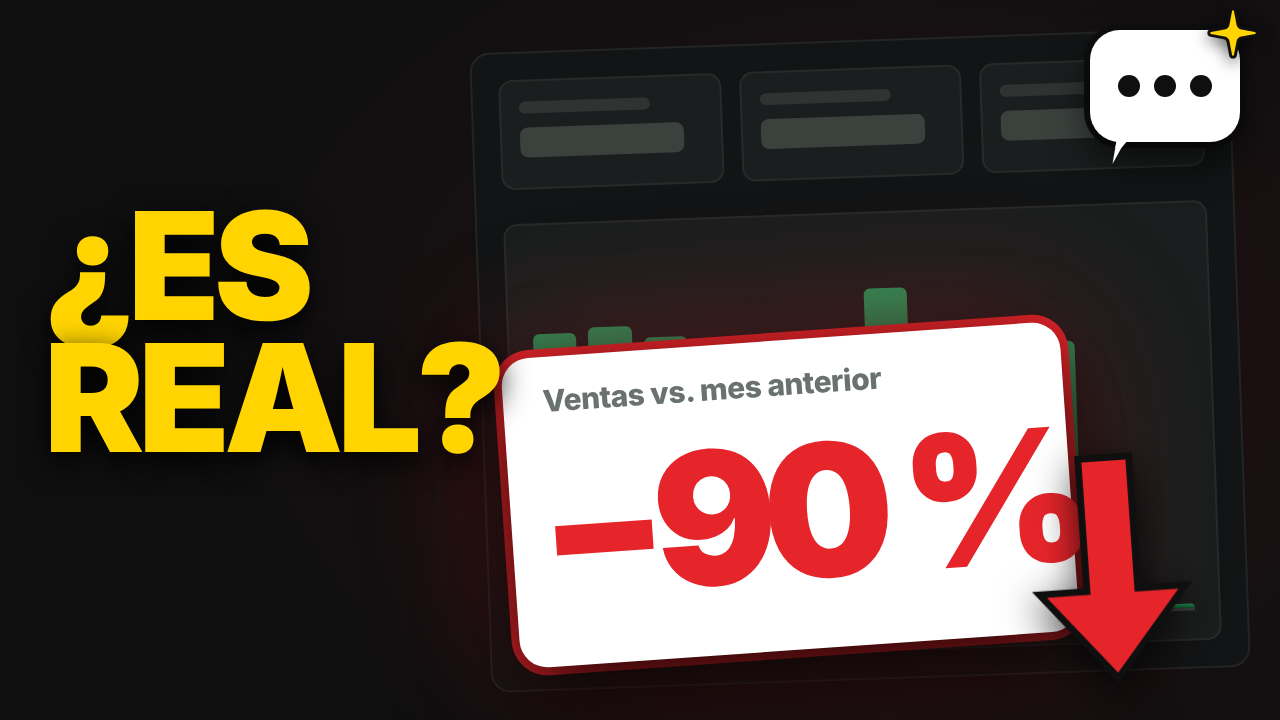
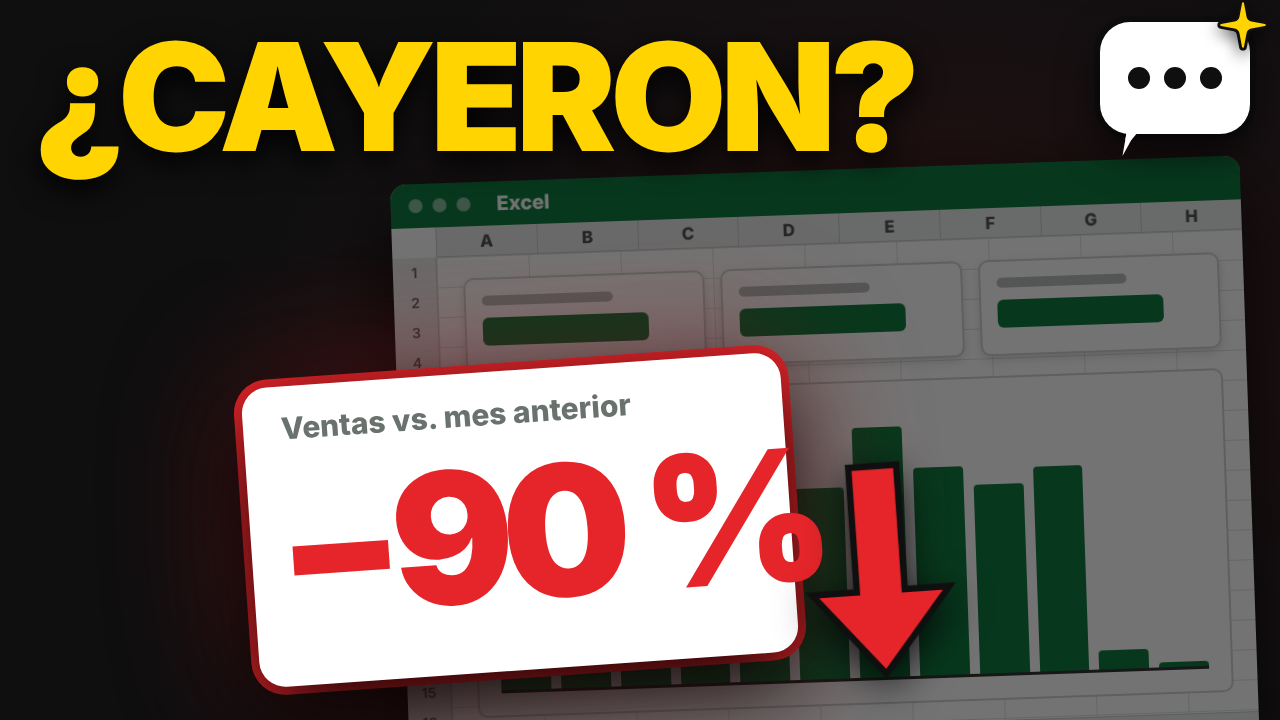
video03: idea ronda 3 (título paso a paso, miniatura B que se lee como Excel)
Claude-Session: https://claude.ai/code/session_014hf1NtWBYouBGzqzAzvZds

diff --git a/produccion/video03/miniatura-b.html b/produccion/video03/miniatura-b.html
@@ -6,30 +6,43 @@
 @font-face{font-family:Inter;font-weight:900;src:url(file:///home/user/nube/produccion/render/fonts/inter-latin-ext-900-normal.woff2);unicode-range:U+0100-024F}
 *{box-sizing:border-box}
 html,body{margin:0;width:1280px;height:720px;overflow:hidden;font-family:Inter,sans-serif;color:#fff}
-body{background:radial-gradient(900px 640px at 70% 50%,#2a0d0d 0%,#161011 50%,#0f0f10 80%)}
+body{background:radial-gradient(900px 640px at 72% 50%,#2a0d0d 0%,#161011 50%,#0f0f10 80%)}
 .bubble{position:absolute;width:150px;height:112px;background:#ffffff;border-radius:30px;box-shadow:0 18px 40px #000a, 0 0 0 6px #0f0f10;display:flex;align-items:center;justify-content:center;gap:14px}
 .bubble:after{content:"";position:absolute;left:26px;bottom:-22px;border:16px solid transparent;border-top:24px solid #fff;border-left:6px solid #fff;transform:skewX(-10deg)}
 .bubble i{width:22px;height:22px;border-radius:50%;background:#0f0f10;display:block}
 .bubble svg{position:absolute;right:-22px;top:-26px;width:58px;height:58px;filter:drop-shadow(0 4px 8px #000a)}
 
-.dash{position:absolute;left:480px;top:40px;width:760px;height:640px;background:#17191a;border-radius:20px;border:2px solid #2a2e2c;filter:brightness(.8);transform:rotate(-2deg)}
-.cards{display:flex;gap:18px;padding:26px}
-.cards div{flex:1;height:110px;background:#222625;border-radius:14px;border:2px solid #303533}
-.cards div:before{content:"";display:block;margin:20px 18px 14px;width:60%;height:12px;border-radius:6px;background:#3b413e}
-.cards div:after{content:"";display:block;margin:0 18px;width:75%;height:30px;border-radius:8px;background:#4a524e}
-.chart{position:absolute;left:26px;right:26px;bottom:26px;height:440px;background:#222625;border-radius:14px;border:2px solid #303533}
-.bars{position:absolute;left:24px;right:24px;bottom:28px;height:340px;display:flex;align-items:flex-end;gap:12px;border-bottom:3px solid #4a524e}
-.bars div{flex:1;background:linear-gradient(#2fb36e,#107C41);border-radius:6px 6px 0 0}
-.kpi{position:absolute;left:510px;top:340px;width:560px;height:310px;background:#fff;border-radius:28px;transform:rotate(-4deg);box-shadow:0 30px 90px #000e,0 0 0 8px #e5252a,0 0 140px #e5252a66;overflow:visible}
-.kpi h4{margin:26px 0 0 40px;font:800 30px Inter;color:#6a726e;letter-spacing:-.5px}
-.kpi .v{position:absolute;left:28px;top:80px;font:900 184px Inter;color:#e5252a;letter-spacing:-14px;line-height:1;white-space:nowrap}
-.kpi svg.arrow{position:absolute;right:-120px;bottom:-60px;width:170px;height:240px;filter:drop-shadow(0 12px 20px #000c)}
-.t{position:absolute;left:44px;top:200px;font-weight:900;line-height:.88;letter-spacing:-6px;text-shadow:0 10px 30px #000}
-.t span{display:block;font-size:150px;color:#ffd400}
+.xl{position:absolute;left:400px;top:170px;width:850px;height:600px;background:#fff;border-radius:16px;overflow:hidden;transform:rotate(-2deg);filter:brightness(.45);box-shadow:0 30px 80px #000c}
+.top{height:44px;background:#107C41;display:flex;align-items:center;padding-left:18px;gap:10px}
+.top i{width:14px;height:14px;border-radius:50%;background:#ffffff80;display:block}
+.top b{margin-left:16px;font:800 20px Inter;color:#fff}
+.cols{position:absolute;top:44px;left:44px;right:0;height:30px;background:#e9eceb;border-bottom:1px solid #c9cecc;display:flex}
+.cols span{flex:1;border-left:1px solid #c9cecc;font:700 17px Inter;color:#555;text-align:center;line-height:30px}
+.rows{position:absolute;top:74px;left:0;width:44px;bottom:44px;background:#e9eceb;border-right:1px solid #c9cecc;display:flex;flex-direction:column}
+.rows span{height:30px;font:600 14px Inter;color:#666;text-align:center;line-height:30px}
+.grid{position:absolute;top:74px;left:44px;right:0;bottom:44px;background-image:linear-gradient(#dfe3e1 1px,transparent 1px),linear-gradient(90deg,#dfe3e1 1px,transparent 1px);background-size:100% 30px,92px 100%}
+.tabs{position:absolute;left:0;right:0;bottom:0;height:44px;background:#e9eceb;border-top:1px solid #c9cecc}
+.tabs span{position:absolute;left:60px;bottom:0;height:40px;padding:0 22px;background:#fff;border-bottom:4px solid #107C41;font:800 18px Inter;color:#107C41;line-height:38px}
+.tabs span+span{left:200px;background:none;border:none;color:#666}
+.cards{position:absolute;top:96px;left:70px;right:24px;display:flex;gap:16px}
+.cards div{flex:1;height:96px;background:#fff;border:2px solid #cfd5d2;border-radius:10px;box-shadow:0 4px 10px #0002}
+.cards div:before{content:"";display:block;margin:16px 16px 12px;width:55%;height:10px;border-radius:5px;background:#b9c0bd}
+.cards div:after{content:"";display:block;margin:0 16px;width:70%;height:28px;border-radius:6px;background:#107C41}
+.chart{position:absolute;left:70px;right:24px;top:212px;bottom:64px;background:#fff;border:2px solid #cfd5d2;border-radius:10px}
+.bars{position:absolute;left:22px;right:22px;bottom:22px;height:270px;display:flex;align-items:flex-end;gap:10px;border-bottom:3px solid #333}
+.bars div{flex:1;background:#107C41;border-radius:4px 4px 0 0}
+.kpi{position:absolute;left:250px;top:370px;width:540px;height:300px;background:#fff;border-radius:26px;transform:rotate(-4deg);box-shadow:0 30px 90px #000e,0 0 0 8px #e5252a,0 0 140px #e5252a66}
+.kpi h4{margin:24px 0 0 38px;font:800 30px Inter;color:#6a726e}
+.kpi .v{position:absolute;left:26px;top:72px;font:900 182px Inter;color:#e5252a;letter-spacing:-12px;line-height:1;white-space:nowrap}
+.kpi svg{position:absolute;right:-165px;bottom:-40px;width:160px;height:230px;filter:drop-shadow(0 12px 20px #000c)}
+.t{position:absolute;left:34px;top:22px;font-weight:900;line-height:1;letter-spacing:-6px;white-space:nowrap;text-shadow:0 10px 30px #000;color:#ffd400}
+.t span{display:block;font-size:150px}
 </style></head><body>
-<div class="dash"><div class="cards"><div></div><div></div><div></div></div><div class="chart"><div class="bars"><div style="height:296px"></div><div style="height:301px"></div><div style="height:289px"></div><div style="height:221px"></div><div style="height:247px"></div><div style="height:252px"></div><div style="height:330px"></div><div style="height:275px"></div><div style="height:249px"></div><div style="height:271px"></div><div style="height:26px"></div><div style="height:4px"></div></div></div></div></div>
+<div class="xl"><div class="top"><i></i><i></i><i></i><b>Excel</b></div><div class="cols"><span>A</span><span>B</span><span>C</span><span>D</span><span>E</span><span>F</span><span>G</span><span>H</span></div><div class="rows"><span>1</span><span>2</span><span>3</span><span>4</span><span>5</span><span>6</span><span>7</span><span>8</span><span>9</span><span>10</span><span>11</span><span>12</span><span>13</span><span>14</span><span>15</span><span>16</span><span>17</span><span>18</span></div><div class="grid"></div>
+<div class="cards"><div></div><div></div><div></div></div><div class="chart"><div class="bars"><div style="height:224px"></div><div style="height:228px"></div><div style="height:219px"></div><div style="height:167px"></div><div style="height:187px"></div><div style="height:191px"></div><div style="height:250px"></div><div style="height:208px"></div><div style="height:189px"></div><div style="height:205px"></div><div style="height:19px"></div><div style="height:5px"></div></div></div>
+<div class="tabs"><span>Dashboard</span><span>Pedidos</span></div></div>
 <div class="kpi"><h4>Ventas vs. mes anterior</h4><div class="v">−90 %</div>
-<svg class="arrow" viewBox="0 0 100 130"><path d="M35 0h30v78h28L50 130 7 78h28z" fill="#e5252a" stroke="#0f0f10" stroke-width="4"/></svg></div>
-<div class="t"><span>¿ES</span><span>REAL?</span></div>
-<div class="bubble" style="left:1090px;top:30px"><i></i><i></i><i></i><svg viewBox="0 0 24 24"><path fill="#FFD400" stroke="#0f0f10" stroke-width="1.2" d="M11.017 2.814a1 1 0 0 1 1.966 0l1.051 5.558a2 2 0 0 0 1.594 1.594l5.558 1.051a1 1 0 0 1 0 1.966l-5.558 1.051a2 2 0 0 0-1.594 1.594l-1.051 5.558a1 1 0 0 1-1.966 0l-1.051-5.558a2 2 0 0 0-1.594-1.594l-5.558-1.051a1 1 0 0 1 0-1.966l5.558-1.051a2 2 0 0 0 1.594-1.594z"/></svg></div>
+<svg viewBox="0 0 100 130"><path d="M35 0h30v78h28L50 130 7 78h28z" fill="#e5252a" stroke="#0f0f10" stroke-width="4"/></svg></div>
+<div class="t"><span>¿CAYERON?</span></div>
+<div class="bubble" style="left:1100px;top:22px"><i></i><i></i><i></i><svg viewBox="0 0 24 24"><path fill="#FFD400" stroke="#0f0f10" stroke-width="1.2" d="M11.017 2.814a1 1 0 0 1 1.966 0l1.051 5.558a2 2 0 0 0 1.594 1.594l5.558 1.051a1 1 0 0 1 0 1.966l-5.558 1.051a2 2 0 0 0-1.594 1.594l-1.051 5.558a1 1 0 0 1-1.966 0l-1.051-5.558a2 2 0 0 0-1.594-1.594l-5.558-1.051a1 1 0 0 1 0-1.966l5.558-1.051a2 2 0 0 0 1.594-1.594z"/></svg></div>
 </body></html>

diff --git a/produccion/video03/idea.md b/produccion/video03/idea.md
@@ -1,6 +1,6 @@
-# Dashboard en Excel con IA: el error de cada inicio de mes (ronda 2)
+# Dashboard en Excel con IA paso a paso: el número que asusta (ronda 3)
 
-- **Pilar:** P1 · Excel + IA. La ficha (`canales/atajos-ia/ficha.md`, "Temas de RPM alto") incluye "dashboards e informes de gestión"; no hay una cifra de RPM con fuente para este tema y no la invento. · **Formato:** estructura **A (tutorial con cronómetro)** de `youtube/04` §5 (`04` solo define A, B y C). Los "pasos 1–3" son las 4 preguntas del dashboard. El "paso secreto" es la Prueba sobre el dato "contra el mes anterior" (≈ 65 %). El resultado final es el dashboard rehaciéndose al pegar los pedidos nuevos. · **Duración objetivo:** 9,5 min (rango 9–11), con un corte de anuncios en 5:00, entre la pregunta 2 y la 3.
+- **Pilar:** P1 · Excel + IA. RPM: **sin cifra verificada**. La única referencia es la ficha (`canales/atajos-ia/ficha.md`, "Temas de RPM alto": "dashboards e informes de gestión"), que es criterio propio y no un dato medido. No invento una cifra. Para sumar intención comercial, `informe de ventas`, `cuentas por cobrar` y `Power BI` van en capítulos y en la descripción. Con datos del canal, se revisa en el informe mensual de noviembre. · **Formato:** estructura **A (tutorial con cronómetro)** de `youtube/04` §5 (`04` solo define A, B y C). Los "pasos 1–3" son las 4 preguntas del dashboard. El "paso secreto" es la Prueba sobre el dato "contra el mes anterior" (≈ 65 %). El resultado final es el dashboard rehaciéndose al pegar los pedidos nuevos. · **Duración objetivo:** 9,5 min (rango 9–11), con un corte de anuncios en 5:00, entre la pregunta 2 y la 3.
 - **Palabra clave principal:** `dashboard en excel con ia`. Va al principio de todos los títulos, menos el A/B 3 condicional.
 - **Búsquedas relacionadas (no salen de `investigar.py sugerencias`, que volvió a dar 403 el 26/10/2026):**
   - Consultas medidas con la API: `dashboard en excel` (oportunidad 79) y `tabla dinamica con ia` (62; devuelve sobre todo dashboards con IA).
@@ -15,12 +15,12 @@
     - En español, los videos del tema hacen **entre 500 y 1.600 vistas por día**: El Inge Francisco [1.613/día](https://youtu.be/f1pifDNhSzk), El Tío Tech [1.336](https://youtu.be/VVE2BfJ2cdg), EXCELeINFO [882](https://youtu.be/YtGfOEePKRU), Raymon Acuña [680](https://youtu.be/V1O-Z0dl5o0) y El Tío Tech con VBA [515](https://youtu.be/cjvQzxuaGlI).
     - Su ratio es de **0,0x a 0,5x**, salvo Raymon Acuña (2,2x), y **ninguno tiene menos de 60 días**.
     - La demanda existe, pero se la llevan canales de 188 mil a 2 millones de suscriptores.
-    - **Expectativa:** por búsqueda, poco en las primeras semanas. El video depende del **CTR en sugeridos** (por eso el empaque principal es el giro, que no se parece a ninguna miniatura del top) y del **tráfico de video02** (tarjeta y pantalla final).
+    - **Expectativa:** por búsqueda, poco en las primeras semanas. El video depende del **CTR en sugeridos** (por eso la miniatura principal es la del −90 %, que no se parece a ninguna del top) y del **tráfico de video02** (tarjeta y pantalla final).
 - **Por qué ahora:**
   1. Todos los videos del tema venden velocidad: "1 minuto", "al instante", "adiós a las horas". Ninguno habla de que el número más grande del tablero puede estar mal.
   2. Se publica el **martes 03/11/2026, día 3 del mes**: es exactamente la situación del giro. Igual, la voz nunca dice "hoy": dice "el día 3 de cada mes", y el giro funciona en cualquier fecha de publicación.
   3. Continuidad: video02 (26/10) dejó la planilla de Distribuidora Sur limpia y con la cobranza corregida. video03 es el paso siguiente: "los datos ya están limpios; ahora, el tablero del lunes".
-- **Línea 1 de la descripción:** "Dashboard en Excel con IA: pegas los pedidos y se rehace solo, pero ojo con el error de cada inicio de mes que te muestra caídas de ventas que no existen. Gratis, en Excel para la web, sin macros ni tablas dinámicas."
+- **Línea 1 de la descripción:** "Arma paso a paso un dashboard de ventas en Excel con IA: pegas los pedidos y se rehace solo, en Excel para la web gratis, sin macros." (Línea 2: "Y aprende a detectar el número que te muestra una caída de ventas que no existe.")
 
 ## Ángulo propio: qué no tiene el top 5 en español
 
@@ -29,20 +29,25 @@ El top en español sobre dashboards con IA, ya revisado por el investigador con 
 - [Raymon Acuña](https://youtu.be/V1O-Z0dl5o0): Gemini Canvas.
 - [EXCELeINFO, "Claude ya puede crear dashboards que se actualizan solos"](https://youtu.be/YtGfOEePKRU): trabaja en Google Sheets.
 - [Mundo Virtual Pro](https://youtu.be/Iz-44S4tHfU): Gemini y un conversor de pago.
-- [El Inge Francisco, "el mejor prompt… ¿Claude SIRVE?"](https://youtu.be/1pJqarOwgbA): **falta revisarlo**. Es la condición del investigador: si en ese video se revisa la exactitud de un KPI por mes incompleto, el giro pierde exclusividad y el empaque principal se reevalúa.
+- [El Inge Francisco, "el mejor prompt… ¿Claude SIRVE?"](https://youtu.be/1pJqarOwgbA): **revisado** por el investigador (descripción y 43 comentarios, con certeza media). Hace "probé a Claude y decepciona", pero **no trata el mes incompleto ni verifica los KPI**. El giro sigue siendo exclusivo. El acto "lo probé" no es diferencial: por eso dura 30 s o menos.
 
 Diferenciadores reales (solo dos, y el empaque vende el primero):
-1. **El error de cada inicio de mes (el giro).** Con los datos al 03/11, el dato "ventas de este mes contra el anterior" da **−90,4 %**. Comparado con el mismo tramo de días da **+7,6 %**, y el último mes cerrado, **+8,6 %**. Ningún video del top revisa si el número del tablero es cierto. Es la firma 3 del canal (veredicto honesto) llevada al título.
+1. **El error de cada inicio de mes (el giro).** Con los datos al 03/11, el dato "ventas de este mes contra el anterior" da **−90,4 %**. Comparado con el mismo tramo de días da **+7,6 %**, y el último mes cerrado, **+8,6 %**. Ningún video del top trata el error del mes incompleto ni muestra cómo detectar un KPI correcto en lo literal pero engañoso. Es la firma 3 del canal (veredicto honesto) llevada al título.
 2. **Un dashboard de Excel de verdad, que abre gratis y se rehace al pegar.** Usa fórmulas (SUMAR.SI.CONJUNTO, CONTAR.SI.CONJUNTO, FILTRAR) sobre una **Tabla de Excel**, 2 gráficos de barras y una **lista desplegable** como filtro, en **Excel para la web gratis**. Nada de VBA, Gemini Canvas, Google Sheets, conversores ni complementos de pago. "Pegas los pedidos y se rehace solo" se demuestra en pantalla dos veces (pregunta 1 y resultado final).
+   - **Evidencia cualitativa (una sola fuente, los comentarios de [1pJqarOwgbA](https://youtu.be/1pJqarOwgbA), según el investigador):** el comentario más votado (25) pide tarjetas que cambien con el mes "todo con fórmulas", y otro (20) se queja de tener que revisar lo que dio la IA. Son las dos promesas de este video, pero vienen de un solo video y no permiten generalizar.
 
 **Estructura, no diferenciador:** las 4 preguntas del lunes (EXCELeINFO ya vende "pedirle a Claude que analice antes de generar"), el método Mapa · Meta · Prueba, Distribuidora Sur como universo de la serie, Claude, "automático" y la plantilla gratis.
 
-- **Promesa en una frase:** "Al final de este video vas a poder armar en Excel para la web, gratis y con una IA, un dashboard de ventas que se rehace solo cuando pegas los pedidos nuevos, y vas a saber detectar el error que cada inicio de mes te muestra una caída de ventas que no existe."
+- **Promesa en una frase:** "Al final de este video vas a poder armar en Excel para la web, gratis y con una IA, un dashboard de ventas que se rehace solo cuando pegas los pedidos nuevos, y vas a saber detectar el número que te muestra una caída de ventas que no existe."
   - Sin "[N] minutos" en la promesa: la duración del armado todavía no se midió (condición del creador). Si se mide y da 30 min o menos, se suma "en [N] minutos". Si da más, la voz vende "lo armas una vez; cada lunes, pegar y listo".
 
 ## Restricciones heredadas de video02 (sin cambios)
 
-- **Respuestas reales (regla 4).** Los prompts se corren en claude.ai con el plan gratuito y se guardan textuales, con fecha y captura, en `produccion/video03/respuestas-ia.md`. Solo así el rótulo dice "Claude · versión gratuita"; si no, dice "Claude". En 0:25: "uso Claude gratis; el mismo prompt sirve en ChatGPT o Copilot, y la respuesta puede cambiar: para eso está la Prueba". Lo que no se corra queda pendiente y no sale en el video.
+- **Respuestas reales (regla 4) y condición dura "Claude gratis" (creador; bloquea el cierre del guion, no esta ronda):**
+  - Antes del viernes 30/10, el creador corre en claude.ai, con el plan gratuito y el .xlsx adjunto: (a) el mensaje único del acto "lo probé" y (b) la Prueba del bloque 2. Guarda las respuestas textuales con fecha y captura en `produccion/video03/respuestas-ia.md`. El orquestador no tiene acceso a claude.ai: no se simula.
+  - **Si funciona:** el rótulo dice "Claude · versión gratuita" y "Claude gratis" puede ir en la voz y en la descripción ("uso Claude gratis; el mismo prompt sirve en ChatGPT o Copilot, y la respuesta puede cambiar: para eso está la Prueba").
+  - **Si pide pagar, se agotan los mensajes o no lee el .xlsx:** se muestra tal cual en el acto "lo probé" (veredicto honesto; alimenta el A/B 3 condicional). El rótulo dice "Claude" a secas y "gratis" queda solo para Excel para la web. Los prompts Mapa · Meta · Prueba no necesitan el archivo (el Mapa describe las columnas), así que la demo principal se mantiene.
+  - Sin las tres pruebas con captura (Claude, Excel para la web y tiempos), el guion se puede escribir con marcas de pendiente, pero no se cierra, y la fecha del 03/11 se mueve.
 - **Datos ficticios declarados** en la voz (en 0:25) y en la descripción. La base es reproducible: `fuente/datos_base.py`, con semilla fija y las 12 filas de video02.
 - Excel en español con `;` y la nota del separador en México. Excel para la web gratis. Sin VBA, Power Query ni Power Pivot.
 - **Plantilla gratis y sin registro.**
@@ -84,16 +89,16 @@ El salto del mismo tramo a +146,8 % con 3 pedidos se usa a propósito en el resu
 | Min. | Bloque | Notas |
 |---|---|---|
 | 0:00 | **Hook**: el dashboard terminado; se pega una fila y todo se rehace (3 s); en el segundo 5, zoom a la tarjeta **−90 %** en rojo | El −90 % está en pantalla antes del segundo 8 |
-| 0:15 | Rótulo + voz: "Excel para la web gratis, Claude gratis, sin macros; los datos son inventados. Te enseño el criterio; la plantilla hace el resto." | Regla 7, unos 10 s |
+| 0:15 | Rótulo fijo desde aquí: **"Excel para la web gratis + Claude"** ("Claude · versión gratuita" solo si pasa la condición dura). Voz: "sin macros; los datos son inventados. Te enseño paso a paso el criterio; la plantilla hace el resto." | Regla 7, unos 10 s |
 | 0:25 | **"Lo probé": un solo mensaje** (≤ 30 s) | Lo que salió de verdad en claude.ai. Cierra con la tarjeta −90 % y "rápido, sí; pero mira este número". Si la corrida no se hizo, el acto se elimina |
 | 0:55 | **Pregunta 1, ¿cuánto vendimos?** Primera vez que aparece el método: "Mapa · Meta · Prueba: dónde están los datos, qué quieres y cómo comprobarlo". 3 tarjetas | **Antes y después de la Tabla, en 20 s o menos:** en un rango, se pega el pedido del 02/11 y el total sigue en 46.145.220; en la Tabla, pasa a 46.586.220 |
-| 2:10 | CTA de suscripción con motivo + reenganche: "en un rato, por qué este tablero te asusta cada día 3" | |
+| 2:10 | CTA de suscripción con motivo + reenganche: "y la tarjeta que lo arregla no es la que piensas" | Sin revelar la causa |
 | 2:20 | **Pregunta 2, ¿vamos mejor o peor?**: gráfico de 12 meses (noviembre bajito, diciembre en 0) + tarjeta "contra el mes anterior" = **−90,4 %** en rojo | Se deja así a propósito. La tarjeta se achica y **queda en una esquina** |
 | 3:30 | **Pregunta 3, ¿quién y qué vende?**: barras por vendedor + desplegable en "Carla Ruiz" | La tarjeta −90 % sigue en la esquina |
 | 4:40 | **Pregunta 4, ¿quién nos debe?**: cobranza con el Estado de video02 | Tarjeta de YouTube con enlace a video02. El −90 % sigue en la esquina |
 | 5:00 | **Corte de anuncios** + reenganche: "ahora sí: ese −90 %" | |
 | 5:10–6:40 | **El paso secreto: la Prueba sobre la tarjeta** | Ver abajo. Al resolverse, `quitar` la tarjeta de la esquina |
-| 6:40 | **Resultado final + cronómetro**: se pegan los 3 pedidos de hoy y la barra de noviembre crece de 441.000 a 1.011.600, el acumulado pasa a 47.156.820 y el mismo tramo salta a +146,8 % mientras el mes cerrado sigue en +8,6 % ("por eso la grande es esta") | `antes_despues` solo con tiempos **medidos** (condición del creador); si no, sin cronómetro |
+| 6:40 | **Resultado final + cronómetro**: se pegan los 3 pedidos de hoy y la barra de noviembre crece de 441.000 a 1.011.600, el acumulado pasa a 47.156.820 y el mismo tramo salta a +146,8 % mientras el mes cerrado sigue en +8,6 %. Voz, con la tarjeta grande resaltada: "el de 3 días salta como loco; el que miras el lunes es el del mes cerrado: +8,6 %" | `antes_despues` solo con tiempos **medidos** (condición del creador); si no, sin cronómetro |
 | 7:40 | **Límites**: 1) más de ~10 mil filas o varias fuentes → tabla dinámica o Power BI; 2) el **modo dashboard de Excel con Copilot** ([Kenji Explains, 16/10/2026](https://youtu.be/PxmvWAOksls), 173 mil vistas en 10 días) existe, pero es de Insiders o de pago (hay que verificar la disponibilidad el día del guion), y la Prueba sirve igual con cualquier herramienta; 3) la IA no sabe qué te importa a ti | Firma 3. Seguimiento anotado en `ideas.md` |
 | 8:40 | CTA de la plantilla + pantalla final de 20 s con **video02** a la izquierda | "Si tus datos vienen sucios, empieza por aquí" |
 
@@ -103,7 +108,7 @@ El giro no depende de que la IA se equivoque. Depende de la aritmética: cualqui
 
 1. Pregunta 2: la Meta pide lo que pediría cualquiera ("la variación de las ventas de este mes contra el mes anterior"). La tarjeta se pinta de rojo: **−90,4 %**. Queda en la esquina durante las preguntas 3 y 4.
 2. **La Prueba**: "¿Qué situación puede hacer que esta tarjeta muestre un número creíble pero equivocado, sin dar error? ¿Qué debería mostrar con fecha de corte 03/11/2026?". La respuesta real de claude.ai gratis va textual. **Rama A:** la IA señala el mes incompleto. **Rama B:** no lo señala, se dice ("esta vez no lo vio") y se demuestra cambiando la fecha de corte a 31/10, con lo que la tarjeta salta a +8,6 %. Nunca se inventa la respuesta.
-3. `aviso` rojo: "El día 3 de cada mes, este tablero le dice a tu jefe que las ventas se desplomaron. Así le llegaría." Se muestra el porqué: 3 días contra 31.
+3. `aviso` rojo (es la primera vez que aparece la causa): "El día 3 de cada mes, este tablero dice que las ventas se desplomaron. Y con ese número decidirías el lunes." Se muestra el porqué: 3 días contra 31.
 4. La corrección, en dos tarjetas (`actualizar_tarjeta`): **último mes cerrado = +8,6 %** (la grande) y **mismo tramo = +7,6 %** (la chica, con la nota "con 3 días, es ruido").
 5. La lección, en una frase: "Un dashboard rápido no sirve si el número más grande es mentira. Antes de mandarlo, pregúntale qué puede salir mal."
 
@@ -118,22 +123,22 @@ El giro no depende de que la IA se equivoque. Depende de la aritmética: cualqui
 
 ## 10 títulos (≤ 60 caracteres)
 
-1. **Dashboard en Excel con IA: el error de cada inicio de mes** (57) ← **principal, A/B 1**, con la miniatura B híbrida
-2. **Dashboard en Excel con IA: pegas pedidos y se rehace solo** (57) ← **A/B 2**, con la miniatura A rehecha
-3. *(Condicional, solo si la corrida real sale mal o a medias)* **Le pedí a la IA un dashboard en 1 mensaje: esto salió** (53) ← A/B 3, con la miniatura C hecha con lo que salió de verdad. Si sale bien, no hay A/B 3 y el acto queda en 20 s
-4. Dashboard en Excel con IA gratis: se actualiza solo (51) (era el principal; queda de reserva porque es casi el título de EXCELeINFO)
+1. **Dashboard en Excel con IA paso a paso: el número que asusta** (59) ← **principal, A/B 1**, con la miniatura B
+2. **Dashboard en Excel con IA: el error de cada inicio de mes** (57) ← **A/B 2**, con la misma miniatura B (se prueba el título, no la miniatura)
+3. **Dashboard en Excel con IA: pegas pedidos y se rehace solo** (57) ← **A/B 3**, con la miniatura A. **Se reemplaza** por "Le pedí a la IA un dashboard en 1 mensaje: esto salió" (53, con la miniatura C hecha con lo que salió de verdad) si la corrida del mensaje único sale mal o a medias
+4. Dashboard en Excel con IA gratis: se actualiza solo (51) (reserva: es casi el título de EXCELeINFO)
 5. Dashboard en Excel con IA, sin macros ni Copilot de pago (56)
-6. Dashboard en Excel con IA: el número que asusta a tu jefe (57)
-7. Dashboard en Excel con IA: el reporte del lunes, listo (54)
-8. Dashboard en Excel con IA paso a paso (plantilla gratis) (56)
-9. Dashboard en Excel con IA: listo en [N] min, sin macros (55) (solo con [N] medido)
+6. Dashboard en Excel con IA: el reporte del lunes, listo (54)
+7. Dashboard en Excel con IA paso a paso (plantilla gratis) (56)
+8. Dashboard en Excel con IA: listo en [N] min, sin macros (55) (solo con [N] medido)
+9. Dashboard en Excel con IA: no lo mandes sin esta prueba (55)
 10. Dashboard en Excel con IA que no te asusta cada día 3 (53)
 
 **Por qué el principal:**
-- Es el único empaque que **no se parece a nada del top**. Los competidores venden "automático", "se actualizan solos", "gratis" y "1 minuto". El título 2 de la ronda 1 era casi el de EXCELeINFO.
-- Nombra un dolor que Laura y Martín reconocen sin saber de dashboards ("inicio de mes" = cuando se arma el reporte).
-- No dice "mentira": el −90,4 % es correcto en lo literal, así que el título habla de un "error" (de lectura) y deja la cifra a la miniatura, sin repetirla.
-- **Por qué no se usa "un solo prompt":** que ese formato funcione está probado solo en inglés (Vedakarna). En español, el mejor resultado es 2,2x, y Laura no vio esos virales. Queda como hipótesis condicional, con la redacción del espectador.
+- "Paso a paso" va en las primeras palabras visibles y cubre la búsqueda de tutorial (es el título de la idea 2 de `ideas.md`). Laura, que todavía no tiene un dashboard, entiende que el video le enseña a armarlo.
+- "El número que asusta" es la **consecuencia**, no la causa. Con la miniatura ("−90 %" + "¿CAYERON?") abre la pregunta sin responderla. "Inicio de mes" respondía la miniatura antes del clic, y por eso pasa a A/B 2.
+- Sin "jefe" (Martín es el jefe), sin "mentira" (el número es correcto en lo literal) y sin "todos" (no está medido). La cifra va solo en la miniatura.
+- **Regla para la prueba (va en `publicacion.md`):** a las 48–72 h se compara el CTR de las variantes en "Probar y comparar". Si una gana con claridad (YouTube la declara ganadora), pasa a principal, aunque sea el A/B 2 o el 3.
 
 ## 3 conceptos de miniatura (fondo #0F0F10, acento #FFD400, 1 protagonista, texto distinto del título, sin fórmulas legibles)
 
@@ -141,17 +146,17 @@ Todas llevan la burbuja de chat de la serie: genérica, chica y sin logo.
 
 | | Protagonista visual | Texto (≤ 3 palabras) | Contraste | Va con |
 |---|---|---|---|---|
-| **B híbrida (principal)** | Al fondo, un dashboard oscuro reconocible (3 tarjetas chicas y barras verdes, apagado, sin fórmulas legibles). Adelante, una **tarjeta gigante "−90 %" en rojo con flecha hacia abajo que se sale del cuadro**. Sin sello | **¿ES REAL?** | Rojo de alarma contra el tablero apagado y texto amarillo | Título 1 |
-| **A rehecha** | El dashboard de frente, con una fila nueva que entra pegada (resaltada en amarillo) y la barra de noviembre creciendo con una flecha | **PEGAS Y LISTO**. Si se miden los 20 s: **LUNES: 20 s** | Fila amarilla que entra contra el tablero verde | Título 2 |
-| **C (condicional)** | Captura animada de lo que salió de verdad en el mensaje único (página web, valores fijos o lo que sea), con la parte que falla marcada | Según lo que salió (por ejemplo, "NO SE ACTUALIZA" o "NO ES EXCEL"), siempre cierto | Lo que salió contra el defecto marcado | Título 3 |
+| **B (principal)** | Al fondo, una **hoja de Excel reconocible**: barra verde de Excel, encabezados de columna A–H, números de fila, pestaña "Dashboard" y, encima de la cuadrícula, 3 tarjetas y 12 barras en verde Excel (#107C41), al ~40 % de brillo. Adelante, la **tarjeta "−90 %" roja con flecha hacia abajo**, que tapa cerca de la mitad del tablero y se sale por abajo. Sin sello | **¿CAYERON?** | Rojo de alarma contra el verde de Excel; texto amarillo | Títulos 1 y 2 |
+| **A** | El mismo tablero de frente, con el cursor pegando una fila (resaltada en amarillo) y la barra de noviembre en dos estados, **vacía → llena**, con una flecha | **LUNES: 20 s** solo si se midieron; si no, **sin texto** (el antes/después de la barra habla solo). Nunca "pegas" ni "SIN TOCAR NADA" | Barra vacía contra barra llena | Título 3 |
+| **C (condicional)** | Captura de lo que salió de verdad en el mensaje único, con la parte que falla marcada | Según lo que salió (por ejemplo, "NO SE ACTUALIZA" o "NO ES EXCEL"), siempre cierto | Lo que salió contra el defecto marcado | Título 3 condicional |
 
-Se descartaron "LUNES RESUELTO" (suena a eslogan), "¿EN SERIO?" y el sello "FALSO" (responde la pregunta antes del clic). Boceto de la principal: `produccion/video03/miniatura-b.html` (+ `.png` si el render funcionó).
+Se descartaron "LUNES RESUELTO" (eslogan), "¿EN SERIO?", "¿ES REAL?" (frase genérica de miniaturas de hype), el sello "FALSO" (responde la pregunta antes del clic) y "SIN TOCAR NADA" (hay que pegar los pedidos). Boceto de la principal: `produccion/video03/miniatura-b.html` y `.png`, revisada a 168 px (`miniatura-b-168.png`).
 
 ## Hook (2 ideas · tipo "Resultado primero" + "Contradicción")
 
-> "Pego los pedidos y este dashboard se rehace solo. Pero me dice que las ventas cayeron un 90 %, y no es cierto: es un error que este tablero comete el día 3 de cada mes, y así le llegaría a tu jefe."
+> "Pego los pedidos y este dashboard se rehace solo. Pero me dice que las ventas cayeron un 90 %, y no es cierto. Y con ese número decidirías el lunes."
 
-En pantalla: primer cuadro, el dashboard terminado; se pega una fila y todo se rehace (3 s); hacia el segundo 5, zoom a la tarjeta **−90 %** en rojo. Sin "al final te muestro" y sin "un solo prompt". "Gratis, sin macros, Excel para la web" y "datos inventados" van en el rótulo y la voz de 0:15.
+En pantalla: primer cuadro, el dashboard terminado; se pega una fila y todo se rehace (3 s); hacia el segundo 5, zoom a la tarjeta **−90 %** en rojo. Sin "al final te muestro", sin "un solo prompt", sin "jefe" y **sin la causa** (el inicio de mes aparece recién en el giro, después de 5:10). "Excel para la web gratis + Claude", "sin macros" y "datos inventados" van en el rótulo y la voz de 0:15.
 
 ## Producción con el motor v2 (acciones nuevas, documentadas en `sistema/motor-v2.md`)
 
@@ -175,7 +180,7 @@ Nota para el director visual: en la vista `excel` se ven unas 7 columnas y 12 fi
 - **Excel para la web (verificar en español, con cuenta gratis):** la expansión de la Tabla al pegar, las referencias estructuradas (`Pedidos[Neto]`), la lista desplegable y que los gráficos conserven el formato. La segmentación de datos no se usa.
 - **Cifras:** salen de Python. Hay que confirmar en Excel el −90,4 %, el +7,6 %, el +8,6 %, el +146,8 %, el 46.586.220, el 47.156.820 y el 2.951.090.
 - **Tiempos:** [N] (el armado) y los "20 s" del lunes están sin medir. No entran en la promesa, el título ni la miniatura hasta que se midan.
-- **Exclusividad del giro:** depende de la revisión de El Inge Francisco ([1pJqarOwgbA](https://youtu.be/1pJqarOwgbA)). Si ese video ya trata el mes incompleto, el principal se reevalúa.
+- **Exclusividad del giro:** confirmada con certeza media (El Inge Francisco revisado por descripción y comentarios, sin ver el video entero). Si en el video completo apareciera el mes incompleto, el empaque se mantiene, porque el título principal vende la consecuencia y el tutorial, no la exclusividad.
 - **Fecha:** el martes 03/11, 13:00 CDMX, se mantiene si las verificaciones del creador están el **viernes 30/10**. Si no, conviene mover la fecha antes que recortar la demostración. El giro no depende del día de publicación.
 - **Herramientas que cambian:** Copilot en Excel, su modo dashboard y Claude para Excel se nombran solo como "de pago o Insiders" y se verifican el día del guion. No mencionar `=COPILOT()`.
 - **Competencia y tráfico:** la búsqueda en español la dominan canales grandes; ver la "Lectura honesta".
@@ -203,3 +208,44 @@ Nota para el director visual: en la vista `excel` se ven unas 7 columnas y 12 fi
 - **Retención, "no aprobar 'gratis' sin las 3 verificaciones": aceptada.** Quedan como condiciones del creador antes del guion. "Gratis" ya no está en el título principal, solo en la descripción y en el rótulo, y se retira si Excel para la web no pasa la prueba.
 - **Espectador, "[N] si da una tarde choca con los competidores de 1 minuto": aceptada.** [N] salió de la promesa hasta que se mida. La alternativa es "lo armas una vez; cada lunes, pegar y listo".
 - **Retención, "Dice −90 % y es mentira" como título: rechazada.** Por veracidad (el número es literalmente correcto) y porque repetiría la cifra de la miniatura (regla de `04` §3: el título y la miniatura no se repiten). Decisión del showrunner, punto 2.
+
+## Respuesta a la ronda 2
+
+### Correcciones obligatorias del showrunner
+1. **Títulos. Aceptada.**
+   - Principal: "Dashboard en Excel con IA paso a paso: el número que asusta" (59), con la miniatura B.
+   - A/B 2: "…: el error de cada inicio de mes" (57), con la misma miniatura B.
+   - A/B 3: "…: pegas pedidos y se rehace solo" (57), con la miniatura A sin "pegas" en el texto ("LUNES: 20 s" solo si se mide; si no, la barra vacía → llena, sin texto). El condicional "Le pedí a la IA un dashboard en 1 mensaje: esto salió" reemplaza al A/B 3 si la corrida sale mal.
+   - La regla de las 48–72 h quedó escrita en `produccion/video03/publicacion.md` (borrador nuevo, con la tabla de variantes).
+   - Saqué de la lista "el número que asusta a tu jefe" y entró "no lo mandes sin esta prueba" (55, n.º 9).
+2. **Miniatura B que se lea como Excel. Aceptada.** Rehíce `miniatura-b.html` y `miniatura-b.png`:
+   - Ventana de Excel con barra verde, encabezados A–H, números de fila y pestañas "Dashboard" / "Pedidos", al 45 % de brillo.
+   - 3 tarjetas y 12 barras en #107C41, con las alturas reales de la base; noviembre y diciembre se ven bajitos.
+   - La tarjeta "−90 %" tapa cerca de la mitad izquierda del tablero y deja las barras visibles a la derecha.
+   - Texto "¿CAYERON?" en una línea.
+   - La revisé reducida a 168 × 94 (`miniatura-b-168.png`): se leen "¿CAYERON?" y "−90 %", y la hoja verde con barras se reconoce como Excel. El título de la tarjeta ("Ventas vs. mes anterior") no se lee a ese tamaño, pero no hace falta.
+3. **Hook sin la causa. Aceptada.** El hook ahora es: "Pego los pedidos y este dashboard se rehace solo. Pero me dice que las ventas cayeron un 90 %, y no es cierto. Y con ese número decidirías el lunes."
+   - Sin "día 3", sin "jefe" y sin la causa.
+   - El reenganche de 2:10 es "y la tarjeta que lo arregla no es la que piensas".
+   - La causa aparece recién en el `aviso` del giro, después de 5:10. También saqué "jefe" de ese aviso.
+4. **Intención de tutorial y "gratis". Aceptada.**
+   - Línea 1 de la descripción: la del brief, textual.
+   - El rótulo "Excel para la web gratis + Claude" queda fijo desde 0:15 y pasa a "Claude · versión gratuita" solo si se cumple la condición dura.
+   - La voz de 0:15 dice "te enseño paso a paso".
+   - En el resultado final se suma la frase del +146,8 % con la tarjeta grande resaltada.
+   - La promesa ya no dice "cada inicio de mes", para no adelantar la causa.
+5. **Diferenciación y RPM. Aceptada.**
+   - El Inge Francisco figura como revisado: no trata el mes incompleto y el giro sigue siendo exclusivo.
+   - El diferenciador 1 usa el texto textual del brief.
+   - Sumé los 2 comentarios de 1pJqarOwgbA (25 y 20 votos) como evidencia cualitativa de una sola fuente.
+   - RPM: "sin cifra verificada". La ficha queda como referencia de criterio, y `informe de ventas`, `cuentas por cobrar` y `Power BI` van en capítulos y descripción.
+
+### Condición dura "Claude gratis"
+**Aceptada.** Quedó escrita en "Restricciones heredadas", con las dos ramas y el plazo del viernes 30/10. Sin las 3 pruebas con captura, el guion no se cierra y la fecha se mueve. Yo no simulo ninguna respuesta de claude.ai.
+
+### Objeciones de los críticos (ronda 2)
+- **Retención, "y el error que todos cometen": rechazada.** "Todos" no está medido (veracidad; decisión del showrunner, punto 3).
+- **Retención, "SIN TOCAR NADA" para la miniatura A: rechazada.** Hay que pegar los pedidos, así que no se cumpliría la promesa.
+- **Retención, "no aprobar 'gratis' y 'se rehace solo' sin las 3 pruebas": aceptada.** Bloquea el cierre del guion, no esta ronda.
+- **Investigador, "RPM con referencia antes del informe de noviembre": aceptada como pendiente.** Sin una fuente verificable no se pone cifra.
+- **Espectador, "el título suena a arreglar un dashboard que no tengo": aceptada.** Es la razón de "paso a paso" en el principal y de "Arma paso a paso…" en la línea 1.

diff --git a/produccion/video03/publicacion.md b/produccion/video03/publicacion.md
@@ -1,0 +1,12 @@
+# Video 03 · Publicación (borrador; lo completa el seo-empaquetador)
+
+## Prueba A/B (regla del investigador, ronda 2 de la idea)
+
+| Variante | Título | Miniatura |
+|---|---|---|
+| A (principal) | Dashboard en Excel con IA paso a paso: el número que asusta | `miniatura-b.png` («¿CAYERON?» + −90 %) |
+| B | Dashboard en Excel con IA: el error de cada inicio de mes | `miniatura-b.png` (se prueba el título, no la miniatura) |
+| C | Dashboard en Excel con IA: pegas pedidos y se rehace solo (o el condicional «Le pedí a la IA un dashboard en 1 mensaje: esto salió», si la corrida del mensaje único sale mal) | `miniatura-a.png` (o `miniatura-c.png` en el condicional) |
+
+- **A las 48–72 h:** comparar el CTR de las variantes en «Probar y comparar». Si una gana con claridad (YouTube la declara ganadora), pasa a principal, aunque sea la B o la C. Anotar el resultado para el `analista` en `canales/atajos-ia/aprendizajes.md`.
+- Pantalla final: video02 a la izquierda y Suscribirse a la derecha. Tarjeta de YouTube hacia video02 en la pregunta 4.
